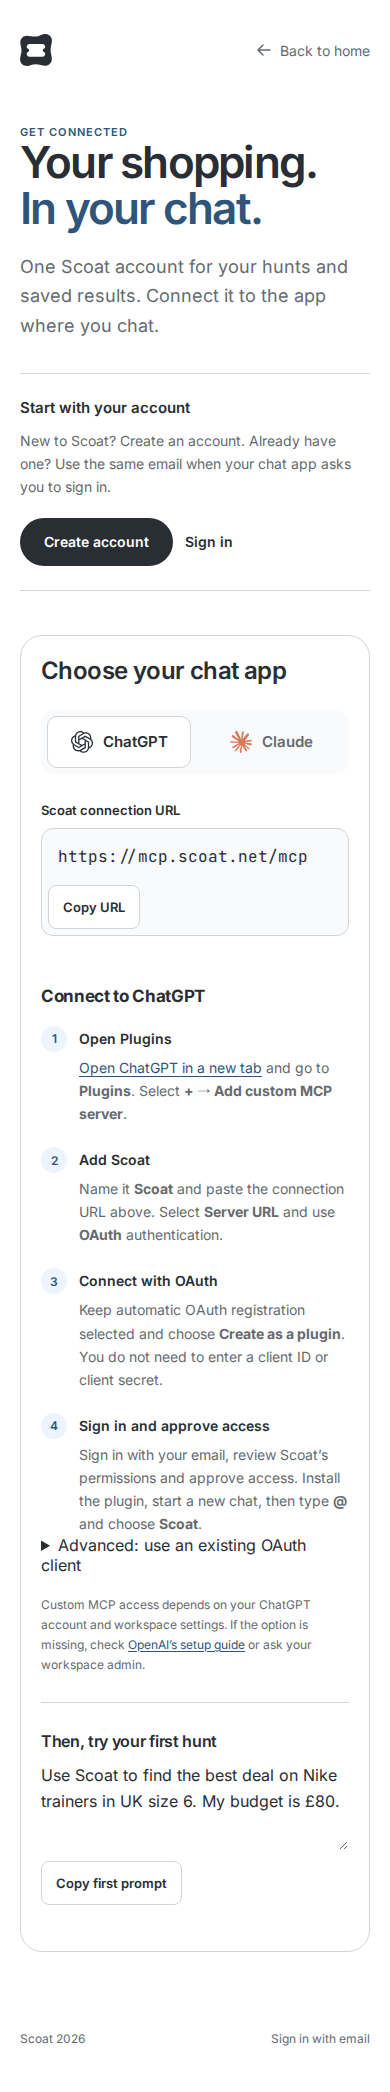
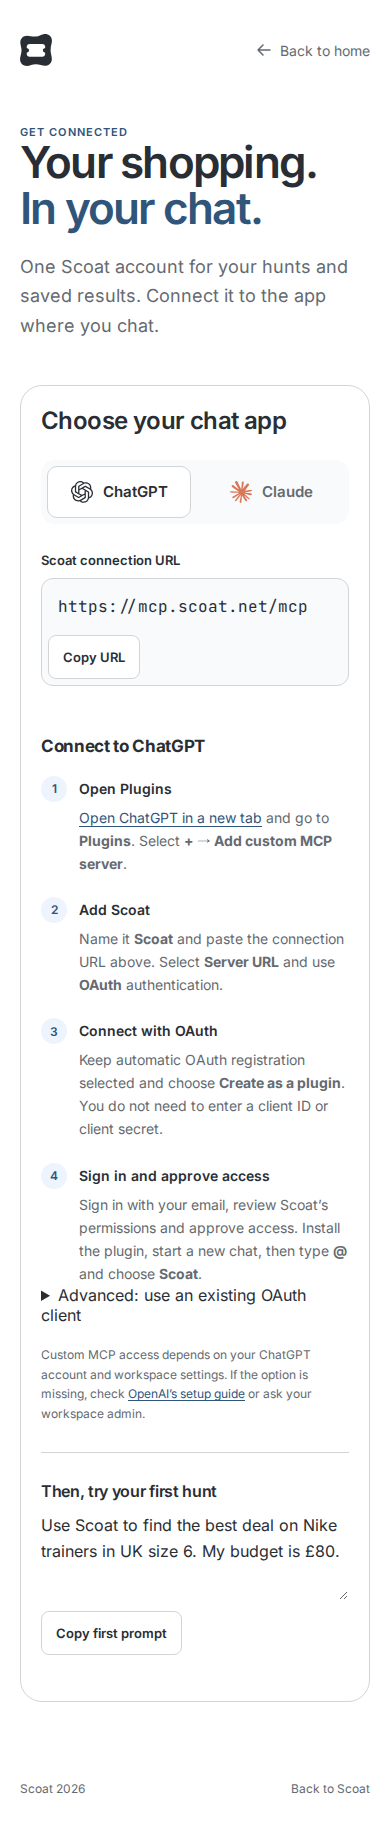
Prepare shared email-code views for the authentication backend

diff --git a/src/browser/views.ts b/src/browser/views.ts
@@ -6,6 +6,27 @@ type Observation = z.infer<typeof observationSchema>;
 const escapeHtml = (value: string) => value.replaceAll("&","&amp;").replaceAll('"',"&quot;").replaceAll("<","&lt;").replaceAll(">","&gt;");
 const escape = escapeHtml;
 const pounds = (pence: number) => "GBP " + (pence / 100).toFixed(2);
+type EmailEntry = { email: string; csrf: string; action: `/${string}`; state: "ready" | "mail-failed" };
+type EmailCode = {
+ email: string;
+ csrf: string;
+ challenge: string;
+ verifyAction: `/${string}`;
+ resendAction: `/${string}`;
+ changeEmailHref: `/${string}`;
+ state: "ready" | "invalid" | "resent" | "expired" | "too-many-attempts";
+};
+export function emailEntry(input: EmailEntry): string {
+ const failed = input.state === "mail-failed";
+ return `<title>${failed ? "Let’s try sending that again" : "Welcome to Scoat"}</title><p>Sign in or create your account with your email. We’ll send you a six-digit code. No password to remember.</p>${failed ? '<div class="account-notice" role="alert"><strong>Your code couldn’t be sent</strong><p>Check your email address and try again. You haven’t been signed in.</p></div>' : ""}<form method="post" action="${escapeHtml(input.action)}"><input type="hidden" name="csrf" value="${escapeHtml(input.csrf)}"><label for="email">Email address</label><input id="email" type="email" name="email" autocomplete="email" inputmode="email" autocapitalize="none" spellcheck="false" maxlength="254" value="${escapeHtml(input.email)}" placeholder="you@example.com" required><button>${failed ? "Try sending again" : "Continue with email"}</button></form><p class="account-help account-after-form">Keep this page open. You’ll enter the code here.</p>`;
+}
+export function emailCode(input: EmailCode): string {
+ const inactive = input.state === "expired" || input.state === "too-many-attempts";
+ const title = input.state === "expired" ? "Your code has expired" : input.state === "too-many-attempts" ? "Let’s use a new code" : "Check your email";
+ const notice = input.state === "expired" ? "Codes expire after 10 minutes. Request a new one below to continue." : input.state === "too-many-attempts" ? "There have been too many attempts. For your security, this code can’t be used again. Request a new code to continue." : input.state === "invalid" ? "That code didn’t match. Check the six digits in your latest email and try again." : input.state === "resent" ? "A new code is on its way. Use the code in your latest email." : "";
+ const hidden = `<input type="hidden" name="csrf" value="${escapeHtml(input.csrf)}"><input type="hidden" name="challenge" value="${escapeHtml(input.challenge)}">`;
+ return `<title>${title}</title><p>${inactive ? "Continue signing in to" : "Enter the six-digit code sent to"}<br><strong>${escapeHtml(input.email)}</strong></p>${notice ? `<div class="account-notice" role="${input.state === "resent" ? "status" : "alert"}">${notice}</div>` : ""}${inactive ? "" : `<form method="post" action="${escapeHtml(input.verifyAction)}">${hidden}<label for="code">Six-digit code</label><input class="account-code" id="code" type="text" name="code" inputmode="numeric" autocomplete="one-time-code" pattern="[0-9]{6}" minlength="6" maxlength="6" aria-describedby="code-help" required${input.state === "invalid" ? ' aria-invalid="true"' : ""}><p id="code-help" class="account-help">Your code works once and expires in 10 minutes.</p><button>Verify and continue</button></form>`}<div class="account-resend"><p class="account-help">${inactive ? "Need a fresh code?" : "No email? Check your spam folder, or send a new code."}</p><form method="post" action="${escapeHtml(input.resendAction)}">${hidden}<button class="account-secondary">${inactive ? "Send a new code" : "Resend code"}</button></form><p><a href="${escapeHtml(input.changeEmailHref)}">Use a different email</a></p></div>`;
+}
 export function eraseStatus() {
  return `<title>Check your erasure result</title><p>Enter the status secret you saved before erasing your account. You do not need to sign in. Completed results remain available for 24 hours.</p><form method="post" action="/account/erase-status"><label>Status secret <input type="password" name="status" maxlength="128" required autocomplete="off"></label><button>Check erasure result</button></form>`;
 }

diff --git a/landing/public/connect/index.html b/landing/public/connect/index.html
@@ -27,7 +27,7 @@
       <span class="connect-eyebrow">GET CONNECTED</span>
       <h1>Your shopping.<br><span>In your chat.</span></h1>
       <p>One Scoat account for your hunts and saved results. Connect it to the app where you chat.</p>
-      <div class="connect-account"><h2>Start with your account</h2><p>New to Scoat? Create an account. Already have one? Use the same email when your chat app asks you to sign in.</p><div class="connect-account-actions"><a class="button button-primary" href="https://accounts.scoat.net/sign-up?redirect_url=https%3A%2F%2Fscoat.net%2Fconnect%2F">Create account</a><a class="button button-ghost" href="https://accounts.scoat.net/sign-in?redirect_url=https%3A%2F%2Fscoat.net%2Fconnect%2F">Sign in</a></div></div><p class="connect-note">Keep this guide open. You’ll add Scoat in your chat app, sign in securely, then review and allow access.</p>
+      <p class="connect-note">Keep this guide open. You’ll add Scoat in your chat app, sign in securely, then review and allow access.</p>
     </div>
     <section class="connect-guide" aria-labelledby="guide-title">
       <h2 id="guide-title">Choose your chat app</h2>
@@ -73,6 +73,7 @@
     </section>
   </main>
   <footer class="connect-footer"><span>Scoat 2026</span><a href="https://mcp.scoat.net/login">Sign in with email</a></footer>
+
 </div>
 </body>
 </html>

diff --git a/landing/public/account.css b/landing/public/account.css
@@ -49,3 +49,9 @@ body.account-page { margin: 0; min-block-size: 100svh; padding: max(1rem, env(sa
 .account-permissions { display: grid; gap: .75rem; padding-inline-start: 1.25rem; margin-block: .5rem 1.5rem; }
 .account-permissions li::marker { color: var(--primary); }
 .account-content button[value="erase"], .account-content button[value="deny"] { background: var(--card); border-color: var(--border); color: var(--foreground); }
+.account-content button.account-secondary { background: var(--card); border-color: var(--border); color: var(--foreground); }
+.account-content .account-code { font: 1.5rem var(--font-mono); letter-spacing: .4em; text-align: center; }
+.account-content .account-after-form { margin-block-start: 1rem; }
+.account-resend { margin-block-start: 1.5rem; padding-block-start: 1.25rem; border-block-start: 1px solid var(--border); }
+.account-resend form { margin-block-start: .75rem; }
+.account-resend p:last-child { margin-block: .5rem 0; }

diff --git a/landing/public/connect.css b/landing/public/connect.css
@@ -67,8 +67,3 @@
 }
 
 .connect-eyebrow { color: var(--primary); font-size: .6875rem; font-weight: 600; letter-spacing: .1em; }
-.connect-account { margin-block-start: 2rem; padding-block: 1.5rem; border-block: 1px solid var(--border); }
-.connect-account h2 { margin: 0; font-size: .9375rem; font-weight: 600; }
-.connect-account p { color: var(--muted-foreground); font-size: .875rem; line-height: 1.65; margin-block: .75rem 1.25rem; }
-.connect-account-actions { display: flex; flex-wrap: wrap; gap: .75rem; }
-.connect-account-actions .button { min-block-size: 3rem; font-size: .875rem; }

diff --git a/.agents/skills/verify-scoat/features/browser-ui.md b/.agents/skills/verify-scoat/features/browser-ui.md
@@ -8,4 +8,4 @@ Use `src/browser/views.ts` for browser content and `sendPage` from `src/browser/
 
 Also run P05 for OAuth or linking routes, P06 for enrollment, Memory or erasure, P07 controls for confirmation forms and P08 for watch forms. Run the P09 acceptance story after browser changes. Shared build or CI changes also run operations. Follow each selected feature's prerequisites and performance gates.
 
-Clerk hosts sign-in and sign-up at `accounts.scoat.net`; this repository does not ship those credential forms. Capture their appearance when reachable and identify them separately from the local matrix. Real ChatGPT, Claude, live mail and physical-phone behavior remain UNTESTED unless exercised in those environments. A local viewport is not a physical-phone test.
+Email entry and six-digit code views are reusable fixtures for the separate email-code backend task. The matrix covers ready, invalid, resent, expired, exhausted-attempt and mail-failure states. Their actions are fixture-only; this PR ships no authentication or mail routes. Do not treat their screenshots as proof of sign-in or delivery. The landing retains its existing account destinations until a Scoat sign-in route exists. Real ChatGPT, Claude, live mail and physical-phone behavior remain UNTESTED unless exercised in those environments. A local viewport is not a physical-phone test.
